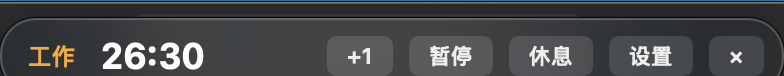
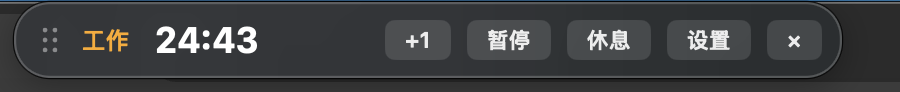
add draggable timer position

diff --git a/Sources/RestGuardian.swift b/Sources/RestGuardian.swift
@@ -123,9 +123,108 @@ private struct GuardianLogEvent: Codable {
     let details: [String: String]
 }
 
+private final class TimerDragHandleView: NSView {
+    weak var draggedWindow: NSWindow?
+    var onMoved: ((NSRect) -> Void)?
+
+    private var dragStartMouseLocation: NSPoint?
+    private var dragStartWindowOrigin: NSPoint?
+
+    override var intrinsicContentSize: NSSize {
+        NSSize(width: 12, height: 22)
+    }
+
+    override init(frame frameRect: NSRect) {
+        super.init(frame: frameRect)
+        commonInit()
+    }
+
+    required init?(coder: NSCoder) {
+        super.init(coder: coder)
+        commonInit()
+    }
+
+    override func draw(_ dirtyRect: NSRect) {
+        super.draw(dirtyRect)
+
+        NSColor.white.withAlphaComponent(0.42).setFill()
+        let dotSize: CGFloat = 2.4
+        let xValues = [bounds.midX - 2.5, bounds.midX + 2.5]
+        let yValues = [bounds.midY - 5, bounds.midY, bounds.midY + 5]
+        for x in xValues {
+            for y in yValues {
+                NSBezierPath(ovalIn: NSRect(
+                    x: x - dotSize / 2,
+                    y: y - dotSize / 2,
+                    width: dotSize,
+                    height: dotSize
+                )).fill()
+            }
+        }
+    }
+
+    override func resetCursorRects() {
+        addCursorRect(bounds, cursor: .openHand)
+    }
+
+    override func mouseDown(with event: NSEvent) {
+        dragStartMouseLocation = NSEvent.mouseLocation
+        dragStartWindowOrigin = (draggedWindow ?? window)?.frame.origin
+        NSCursor.closedHand.set()
+    }
+
+    override func mouseDragged(with event: NSEvent) {
+        guard let targetWindow = draggedWindow ?? window,
+              let dragStartMouseLocation,
+              let dragStartWindowOrigin else {
+            return
+        }
+
+        let currentMouseLocation = NSEvent.mouseLocation
+        var frame = targetWindow.frame
+        frame.origin = NSPoint(
+            x: dragStartWindowOrigin.x + currentMouseLocation.x - dragStartMouseLocation.x,
+            y: dragStartWindowOrigin.y + currentMouseLocation.y - dragStartMouseLocation.y
+        )
+        let clampedFrame = clampedTimerWindowFrame(frame, fallback: targetWindow.frame)
+        targetWindow.setFrame(clampedFrame, display: true)
+        onMoved?(clampedFrame)
+    }
+
+    override func mouseUp(with event: NSEvent) {
+        if let frame = (draggedWindow ?? window)?.frame {
+            onMoved?(frame)
+        }
+        dragStartMouseLocation = nil
+        dragStartWindowOrigin = nil
+        NSCursor.openHand.set()
+    }
+
+    private func commonInit() {
+        toolTip = "拖动计时器"
+        setContentHuggingPriority(.required, for: .horizontal)
+        setContentCompressionResistancePriority(.required, for: .horizontal)
+    }
+}
+
+private func clampedTimerWindowFrame(_ frame: NSRect, fallback: NSRect) -> NSRect {
+    guard let visibleFrame = NSScreen.screens
+        .map(\.visibleFrame)
+        .first(where: { $0.intersects(frame) }) ?? NSScreen.main?.visibleFrame else {
+        return fallback
+    }
+
+    var clampedFrame = frame
+    clampedFrame.origin.x = min(max(clampedFrame.origin.x, visibleFrame.minX), visibleFrame.maxX - clampedFrame.width)
+    clampedFrame.origin.y = min(max(clampedFrame.origin.y, visibleFrame.minY), visibleFrame.maxY - clampedFrame.height)
+    return clampedFrame
+}
+
 private final class RestGuardianApp: NSObject, NSApplicationDelegate, NSWindowDelegate {
     private static let protectedRestSeconds = 5 * 60
     private static let pauseRecoveryMultiplier = 5
+    private static let timerWindowXKey = "timerWindowX"
+    private static let timerWindowYKey = "timerWindowY"
 
     private var config = GuardianConfig.fromArguments()
     private let dateFormatter = ISO8601DateFormatter()
@@ -144,7 +243,12 @@ private final class RestGuardianApp: NSObject, NSApplicationDelegate, NSWindowDe
     private var timerWindow: NSPanel!
     private var modeLabel: NSTextField!
     private var countdownLabel: NSTextField!
+    private var dragHandleView: TimerDragHandleView!
     private var addOneMinuteButton: NSButton!
+    private var pauseButton: NSButton!
+    private var restButton: NSButton!
+    private var settingsButton: NSButton!
+    private var quitButton: NSButton!
     private var restWindow: NSWindow?
     private var restCountdownLabel: NSTextField?
     private var restSuggestionLabel: NSTextField?
@@ -220,7 +324,7 @@ private final class RestGuardianApp: NSObject, NSApplicationDelegate, NSWindowDe
     }
 
     private func buildTimerWindow() {
-        let width: CGFloat = 392
+        let width: CGFloat = 414
         let height: CGFloat = 38
         let frame = topWindowFrame(width: width, height: height)
 
@@ -256,15 +360,25 @@ private final class RestGuardianApp: NSObject, NSApplicationDelegate, NSWindowDe
         countdownLabel = label("25:00", size: 18, weight: .bold, color: .white)
         countdownLabel.monospacedDigit()
 
+        dragHandleView = TimerDragHandleView()
+        dragHandleView.draggedWindow = timerWindow
+        dragHandleView.onMoved = { [weak self] frame in
+            self?.saveTimerWindowFrame(frame)
+        }
+        stack.addArrangedSubview(dragHandleView)
         stack.addArrangedSubview(modeLabel)
         stack.addArrangedSubview(countdownLabel)
         stack.addArrangedSubview(spacer())
         addOneMinuteButton = smallButton("+1", action: #selector(addOneMinuteWork))
         stack.addArrangedSubview(addOneMinuteButton)
-        stack.addArrangedSubview(smallButton("暂停", action: #selector(pauseWork)))
-        stack.addArrangedSubview(smallButton("休息", action: #selector(startRestNow)))
-        stack.addArrangedSubview(smallButton("设置", action: #selector(showSettingsPanel)))
-        stack.addArrangedSubview(smallButton("×", action: #selector(quitApp)))
+        pauseButton = smallButton("暂停", action: #selector(pauseWork))
+        stack.addArrangedSubview(pauseButton)
+        restButton = smallButton("休息", action: #selector(startRestNow))
+        stack.addArrangedSubview(restButton)
+        settingsButton = smallButton("设置", action: #selector(showSettingsPanel))
+        stack.addArrangedSubview(settingsButton)
+        quitButton = smallButton("×", action: #selector(quitApp))
+        stack.addArrangedSubview(quitButton)
 
         shell.addSubview(stack)
         NSLayoutConstraint.activate([
@@ -280,12 +394,32 @@ private final class RestGuardianApp: NSObject, NSApplicationDelegate, NSWindowDe
 
     private func topWindowFrame(width: CGFloat, height: CGFloat) -> NSRect {
         let screenFrame = NSScreen.main?.visibleFrame ?? NSRect(x: 0, y: 0, width: 1280, height: 800)
-        return NSRect(
+        let fallbackFrame = NSRect(
             x: screenFrame.midX - width / 2,
             y: screenFrame.maxY - height - 8,
             width: width,
             height: height
         )
+
+        let defaults = UserDefaults.standard
+        guard defaults.object(forKey: Self.timerWindowXKey) != nil,
+              defaults.object(forKey: Self.timerWindowYKey) != nil else {
+            return fallbackFrame
+        }
+
+        let savedFrame = NSRect(
+            x: defaults.double(forKey: Self.timerWindowXKey),
+            y: defaults.double(forKey: Self.timerWindowYKey),
+            width: width,
+            height: height
+        )
+        return clampedTimerWindowFrame(savedFrame, fallback: fallbackFrame)
+    }
+
+    private func saveTimerWindowFrame(_ frame: NSRect) {
+        let defaults = UserDefaults.standard
+        defaults.set(frame.origin.x, forKey: Self.timerWindowXKey)
+        defaults.set(frame.origin.y, forKey: Self.timerWindowYKey)
     }
 
     private func startWork(seconds: Int, reason: String) {

diff --git a/README.md b/README.md
@@ -22,6 +22,8 @@ Windows 解压 Windows 试用版 zip 后，双击 `run.bat`。
 
 运行后，屏幕顶部会出现工作倒计时。
 
+拖动左侧六点把手可以移动顶部条位置，重启后会记住。
+
 点击 `+1` 可以增加一分钟工作时间。
 
 `+1` 每轮有固定加时额度，暂停不会刷新这个额度。
@@ -85,7 +87,7 @@ Windows 设置和日志会写到：
 
 ## 当前状态
 
-`v0.1.1-alpha`
+`v0.1.2-alpha`
 
 ## 许可证
 
